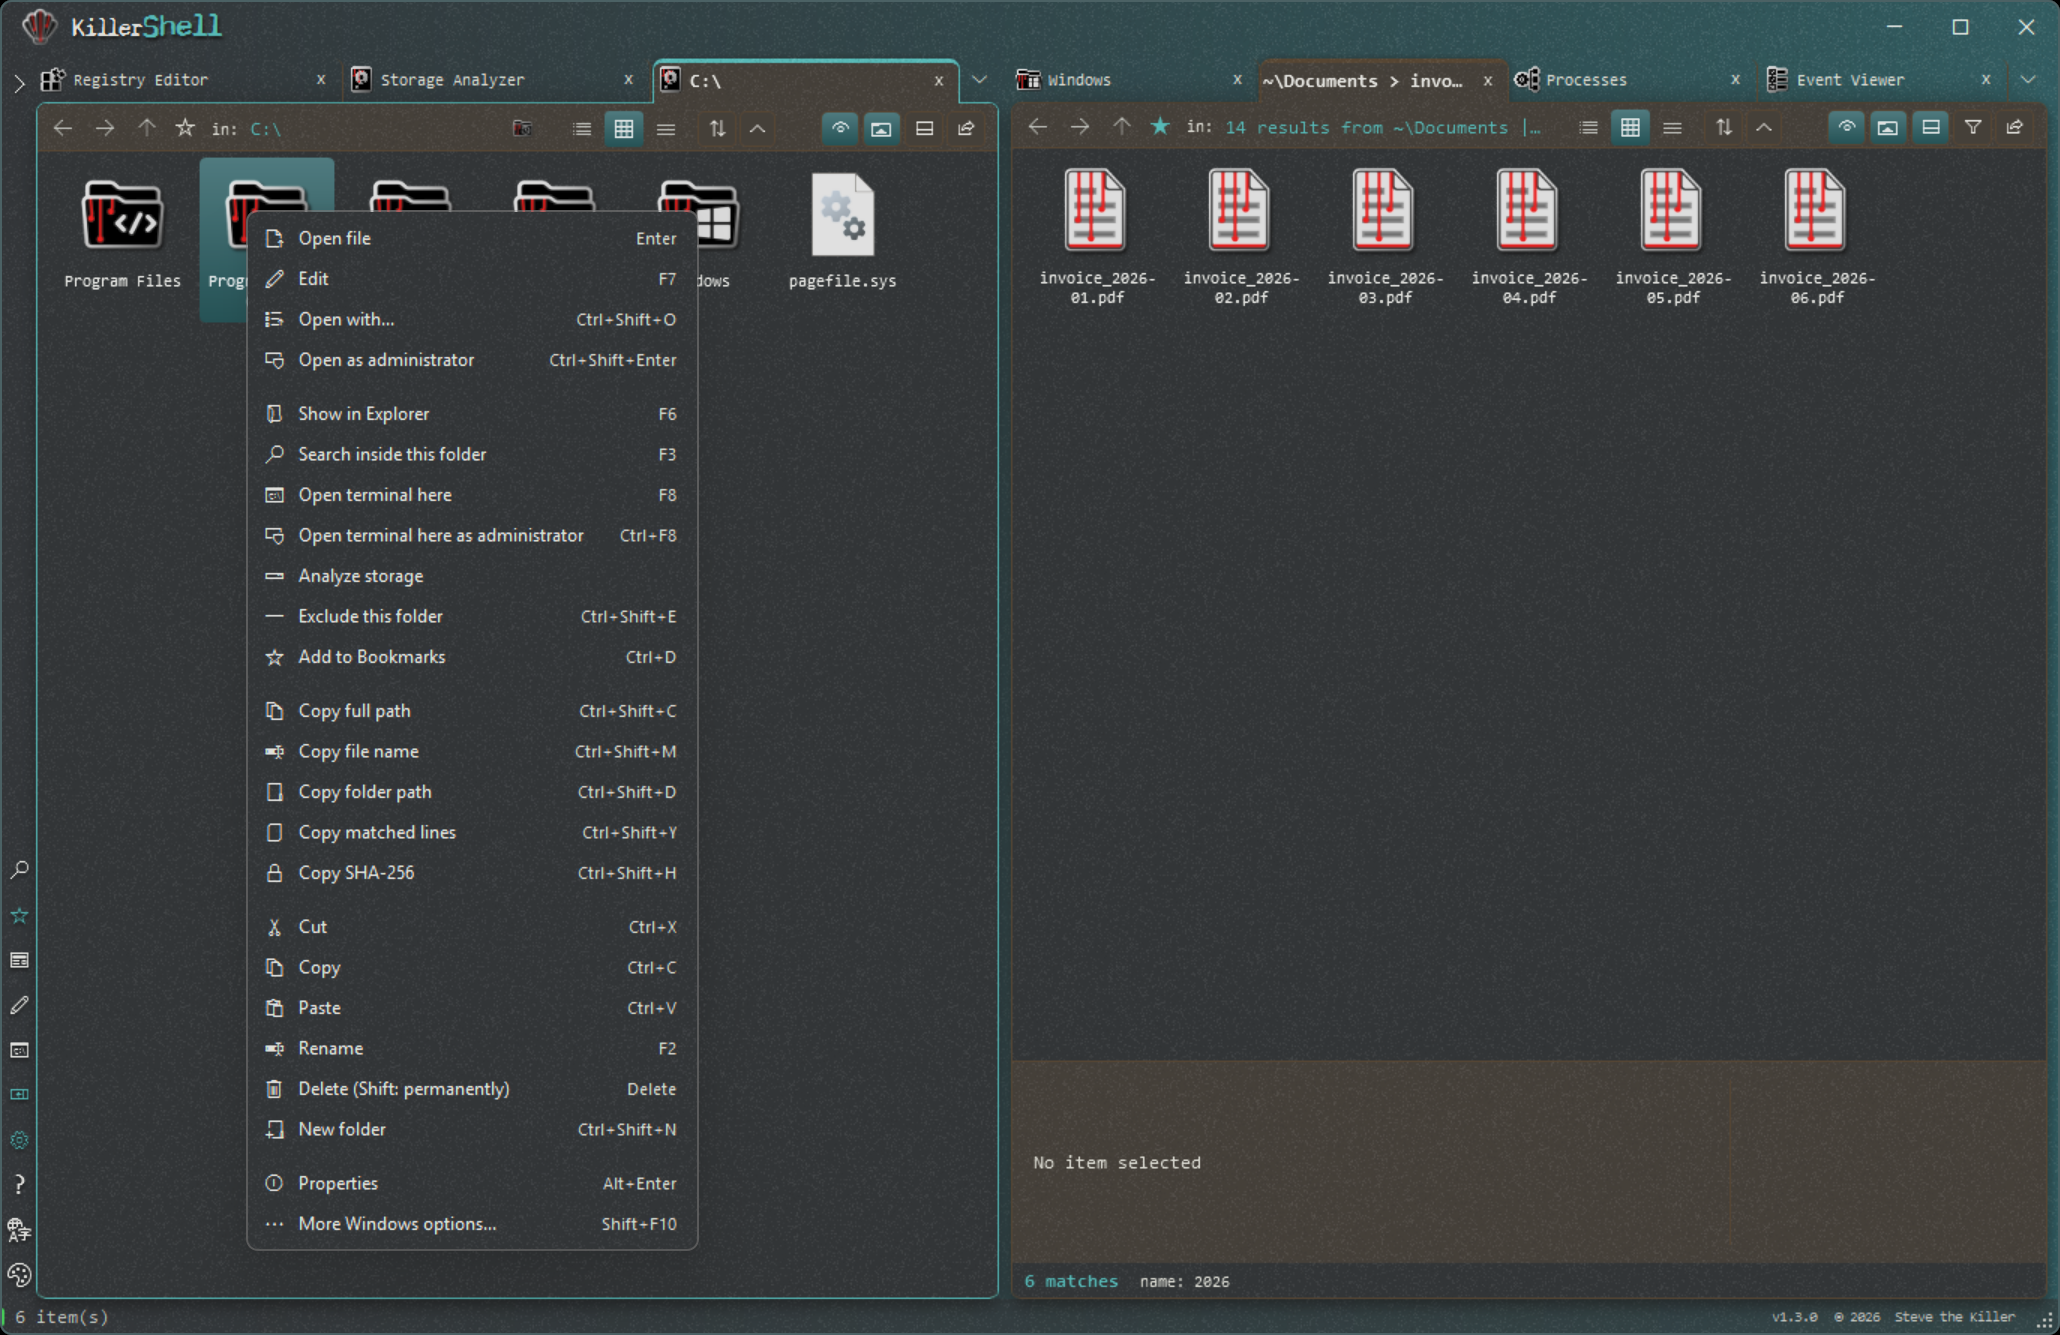
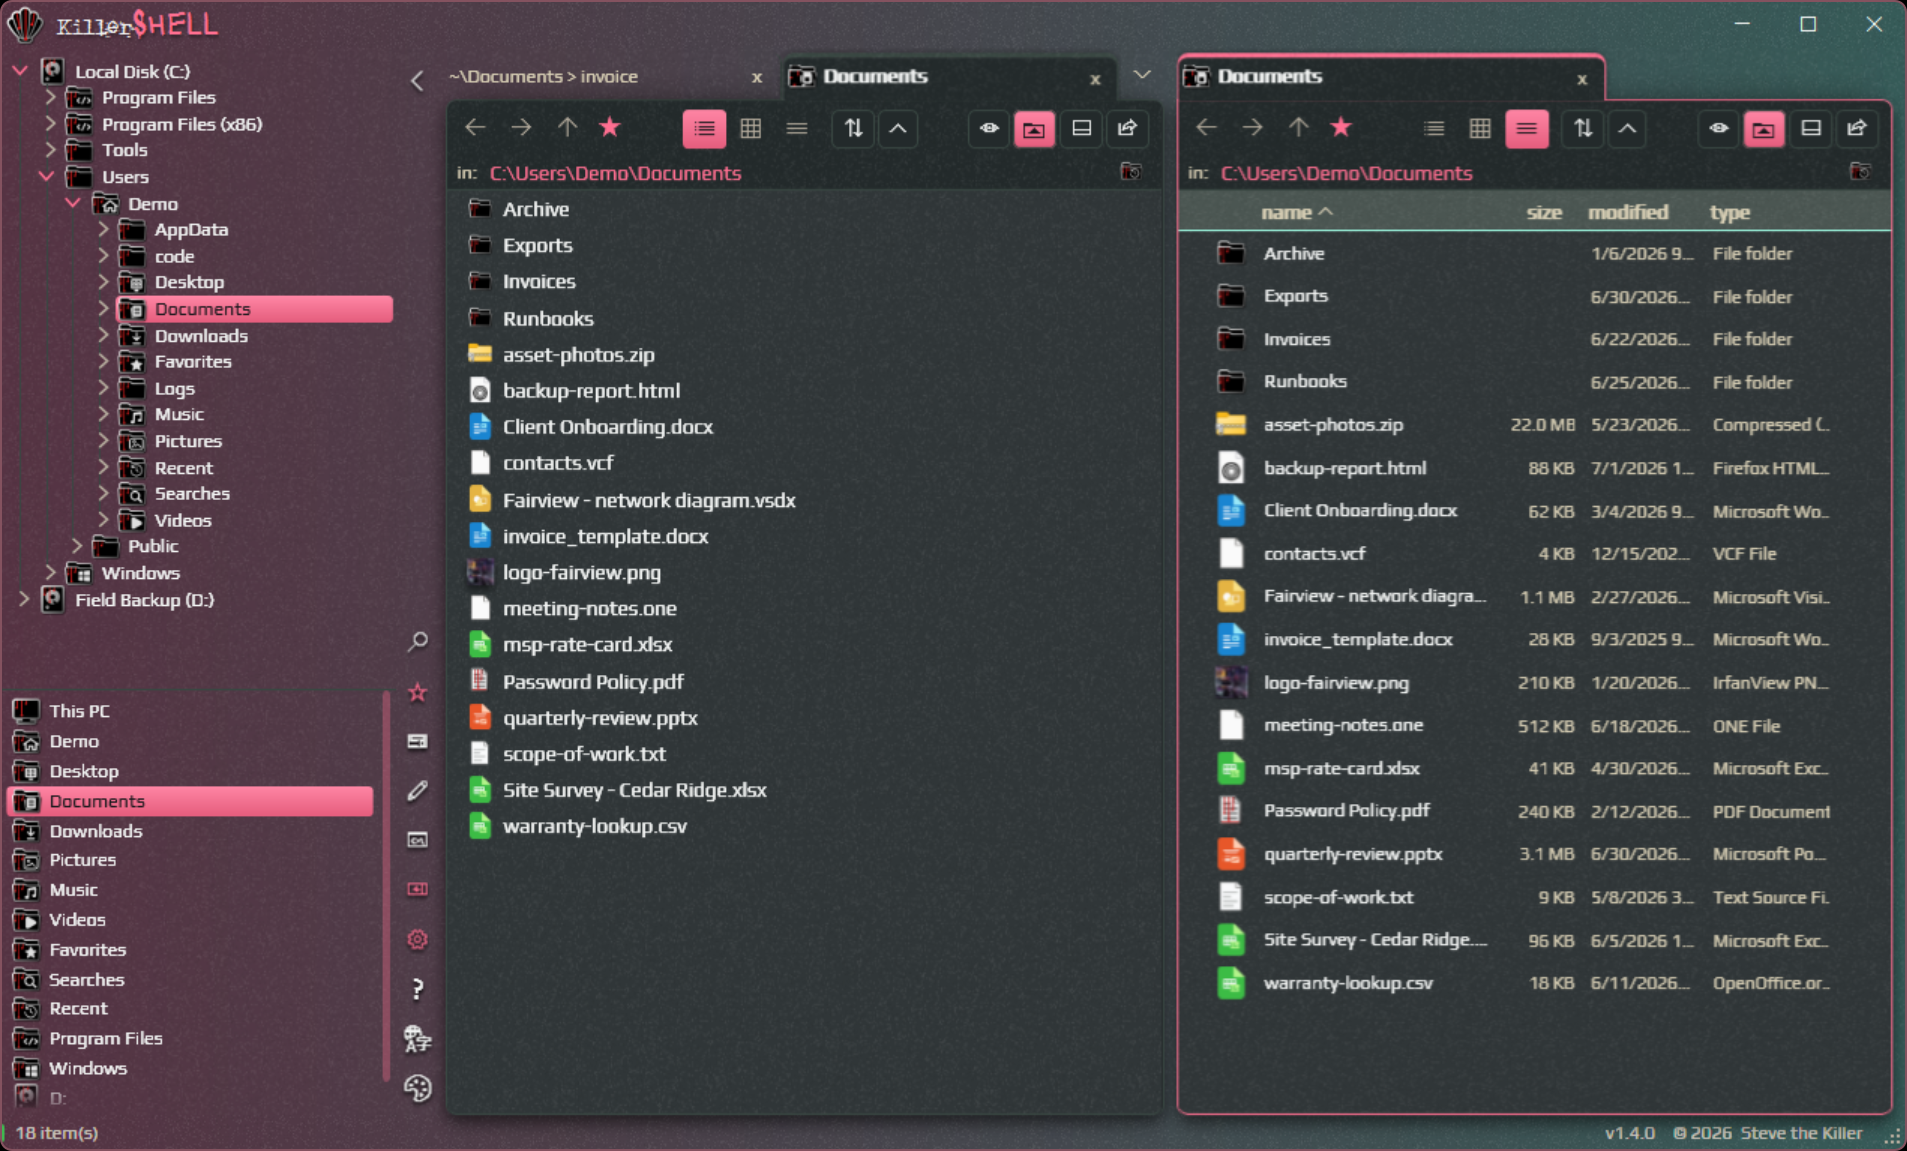
v1.4.0: Refresh website and README screenshots and captions

diff --git a/shell-landing/index.html b/shell-landing/index.html
@@ -279,20 +279,25 @@ html[data-theme="light"] .blurb h3, html[data-theme="light"] .feature-card h3 { 
 <div class="egg-toast" id="eggToast"></div>
 
 <script src="ks-i18n.js?v=9"></script>
-<script src="ks.js?v=8"></script>
+<script src="ks.js?v=9"></script>
 <script src="feature-carousel.js?v=2"></script>
 <script>
 (function () {
   // Screenshot strip: tries screenshots/01.png .. NN.png, drops any that 404, and shows a
   // placeholder until at least one loads. Drop real screenshots into screenshots/ to populate it.
   var descriptions = [
-    'KillerShell Dark theme browsing a folder in icon view with the theme and accent picker open',
-    'KillerShell 98SE theme with Storage Analyzer and Performance Monitor open side by side',
-    'KillerShell Delirium theme browsing Windows beside the live Processes table, with the language picker open',
-    'KillerShell Sepulchre theme with the file actions menu open beside filename search results',
-    'KillerShell Black theme editing a value in the built-in Registry Editor',
-    'KillerShell Ectoplasm theme running elevated with a PowerShell script open in the editor',
-    'KillerShell Greed theme showing the keyboard shortcut map over a PowerShell terminal'
+    'KillerShell Dark theme browsing Documents in details view with the theme, accent and Film Grain controls open',
+    'KillerShell Light theme showing filename search results and the search terms panel with a blue accent and grain off',
+    'KillerShell 98SE theme showing the Storage Analyzer treemap for Windows System32',
+    'KillerShell Malaise theme browsing Documents in side-by-side list and details views',
+    'KillerShell Ectoplasm theme editing a PowerShell script beside a file listing',
+    'KillerShell Delirium theme showing the Processes table with the language picker open',
+    'KillerShell Sepulchre theme showing Event Viewer beside a folder in details view',
+    'KillerShell Decay theme showing a PowerShell terminal with network checks and a patching preview',
+    'KillerShell Mourning theme showing CPU, RAM, disk and network graphs in Performance Monitor',
+    'KillerShell Light theme showing file details and an image preview with a red accent',
+    'KillerShell Black theme browsing Pictures with image thumbnails and a green accent',
+    'KillerShell Dark theme browsing Documents in details view with an orange accent, grain off and the folder tree hidden'
   ];
   var MAX = descriptions.length;
   var sbThumbs = document.getElementById('sbThumbs');
@@ -330,7 +335,7 @@ html[data-theme="light"] .blurb h3, html[data-theme="light"] .feature-card h3 { 
 
   for (var i = 1; i <= MAX; i++) {
     (function (n) {
-      var src = 'screenshots/' + (n < 10 ? '0' + n : '' + n) + '.png';
+      var src = 'screenshots/' + (n < 10 ? '0' + n : '' + n) + '.png?v=1.4.0';
       var img = new Image();
       img.onload = function () {
         if (empty) { empty.remove(); empty = null; }

diff --git a/shell-landing/ks.js b/shell-landing/ks.js
@@ -92,12 +92,17 @@
     if (!dict) return english;
     var captions = [
       'Dark: ' + dict.f_themes_t + ', ' + dict.f_browse_t,
-      '98SE: ' + dict.f_storage_t + ', ' + dict.f_perf_t,
-      'Delirium: ' + dict.f_lang_t + ', ' + dict.f_procsvc_t,
-      'Sepulchre: ' + dict.f_fileops_t + ', ' + dict.f_fname_t,
-      'Black: ' + dict.f_reg_t,
-      'Ectoplasm: ' + dict.f_editor_t,
-      'Greed: ' + dict.h_nav_shortcuts
+      'Light: ' + dict.f_fname_t,
+      '98SE: ' + dict.f_storage_t,
+      'Malaise: ' + dict.f_panes_t + ', ' + dict.f_browse_t,
+      'Ectoplasm: ' + dict.f_editor_t + ', ' + dict.f_panes_t,
+      'Delirium: ' + dict.f_procsvc_t + ', ' + dict.f_lang_t,
+      'Sepulchre: ' + dict.f_evt_t + ', ' + dict.f_panes_t,
+      'Decay: ' + dict.f_term_t,
+      'Mourning: ' + dict.f_perf_t,
+      'Light: ' + dict.f_browse_t,
+      'Black: ' + dict.f_browse_t,
+      'Dark: ' + dict.f_browse_t
     ];
     // The dictionary values are innerHTML, but captions are set as plain text.
     var caption = captions[index - 1];

diff --git a/README.md b/README.md
@@ -31,12 +31,12 @@ Full how-tos live on the [help page](https://killershell.net/help.html); archite
 
 <table>
 <tr>
-<td width="50%"><img src="shell-landing/screenshots/02.png" alt="Storage Analyzer and Performance Monitor open side by side in the 98SE theme"><br><sub>Storage Analyzer and live performance graphs share one workspace, including disks, networks, GPUs, RAM, and per-core CPU history.</sub></td>
-<td width="50%"><img src="shell-landing/screenshots/03.png" alt="Windows folder beside the live Processes table with the language picker open in the Delirium theme"><br><sub>Browse beside a live Processes table, and switch between nineteen languages without restarting.</sub></td>
+<td width="50%"><img src="shell-landing/screenshots/04.png" alt="Documents open side by side in list and details views in the Malaise theme"><br><sub>Give each pane its own tabs and view, with list and details views side by side.</sub></td>
+<td width="50%"><img src="shell-landing/screenshots/05.png" alt="PowerShell script open in the editor beside a file listing in the Ectoplasm theme"><br><sub>Edit a PowerShell script with syntax highlighting while keeping files in the other pane.</sub></td>
 </tr>
 <tr>
-<td><img src="shell-landing/screenshots/04.png" alt="File actions menu open beside filename search results in the Sepulchre theme"><br><sub>Every file action sits in one menu with its shortcut, next to a search tab that keeps its results.</sub></td>
-<td><img src="shell-landing/screenshots/06.png" alt="PowerShell script open in the editor in an elevated window in the Ectoplasm theme"><br><sub>Edit a PowerShell script with syntax highlighting in an ordinary tab, elevated when the job needs it.</sub></td>
+<td><img src="shell-landing/screenshots/08.png" alt="PowerShell terminal showing network checks and a patching preview in the Decay theme"><br><sub>Run PowerShell in a tab, with a themed prompt and room to read command output.</sub></td>
+<td><img src="shell-landing/screenshots/09.png" alt="Performance Monitor showing CPU, RAM, disk and network graphs in the Mourning theme"><br><sub>Watch CPU, RAM, disk and network activity together in the built-in Performance Monitor.</sub></td>
 </tr>
 </table>
 

diff --git a/CHANGELOG.md b/CHANGELOG.md
@@ -53,7 +53,7 @@ Format follows [Keep a Changelog](https://keepachangelog.com/en/1.1.0/) and this
 - Button gradients start at the outline color and darken toward the bottom, so a hovered button no longer looks darker than its border.
 - Long checkbox labels in dialogs wrap instead of running past the edge.
 - Reworded the Clear all data prompt to list what it deletes in parentheses, in every language.
-- Centered website logos with space above and below and corrected current features, runtime requirements and documentation.
+- Centered website logos, corrected current features and documentation, and refreshed the website and README with 1.4.0 screenshots and matching captions.
 - Menu separators draw their divider line instead of leaving an empty gap.
 - The Select, OK and Save buttons in the folder picker, rename and terminal profile dialogs use the family outline button instead of a solid dark block.
 - Context menus use Killer Sans UI like the rest of the interface instead of Segoe UI.
